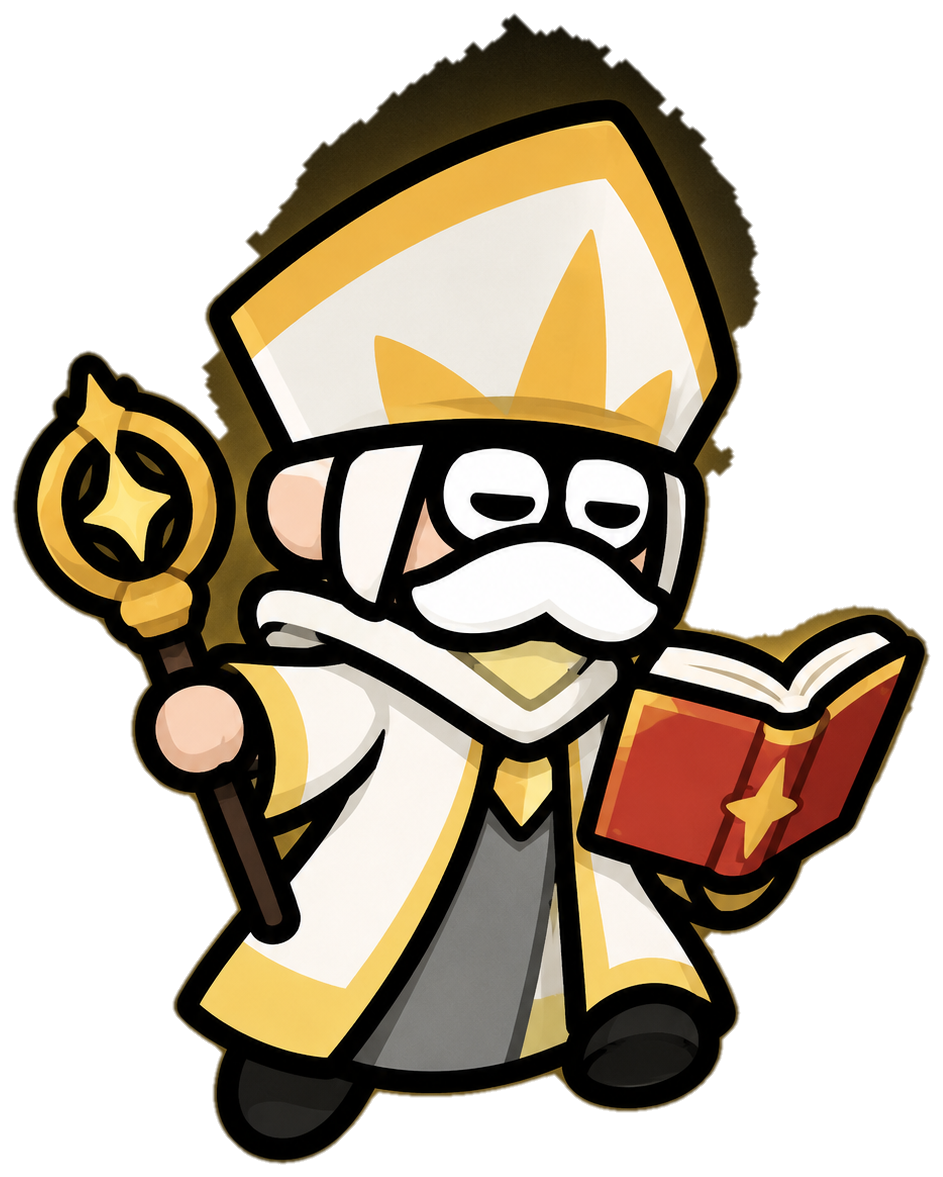
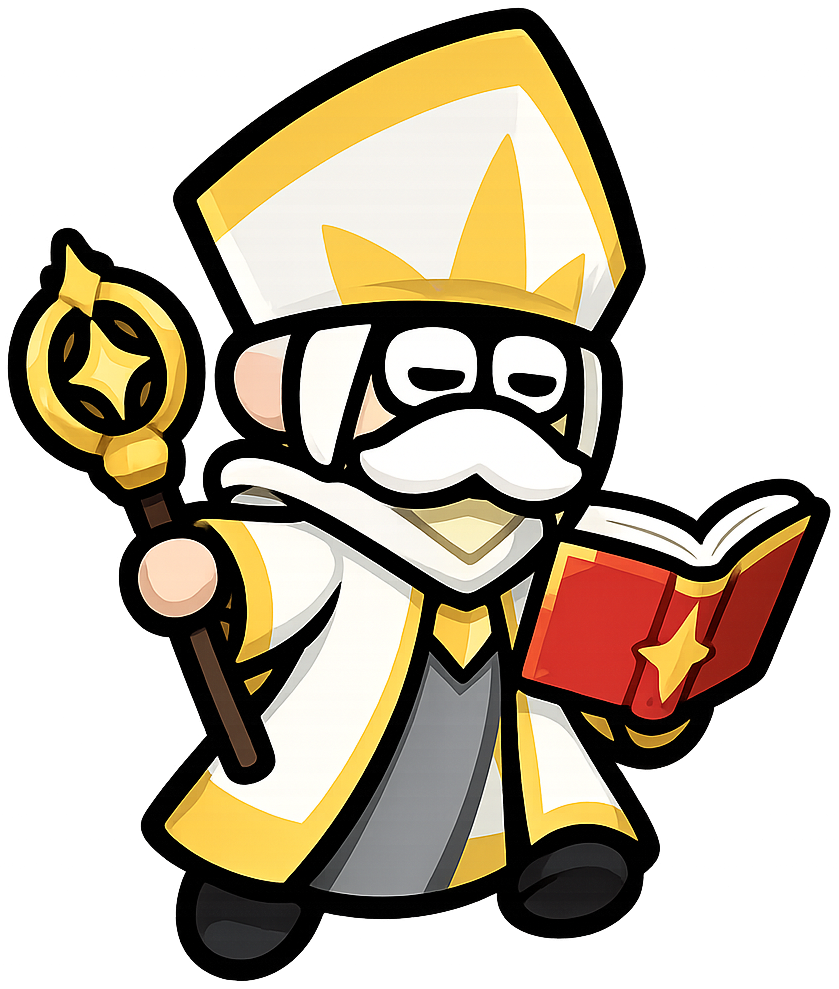
신규 8명 lobby portrait 사용자 제공 깔끔본으로 교체
- 사용자가 직접 BG 제거한 RGBA PNG 8개 trim_portrait.py로 여백만 trim
- 알파 임계값 64로 캐릭터 본체만 남김 (alpha gradient dust 제외)
- HEROES def portraitBigSize 실제 파일 크기로 동기화

diff --git a/game.js b/game.js
@@ -373,7 +373,7 @@ const HEROES = {
     },
     portraitSheet: 'hero_mage_dark_idle', portraitSheetFrame: 0,
     portraitSheetSize: { w: 141, h: 209 }, portraitScale: 1,
-    portraitBig: 'lobby_mage_dark', portraitBigSize: { w: 1054, h: 1080 }, portraitBigScale: 0.65,
+    portraitBig: 'lobby_mage_dark', portraitBigSize: { w: 916, h: 1055 }, portraitBigScale: 0.65,
     quotes: ['심연이 부른다.', '검은 줄기여...', '그림자가 깊다.',
              '소멸하라.', '어둠은 모든 곳에 있다.', '빛은 거짓이다.'],
     animKeys: {
@@ -401,7 +401,7 @@ const HEROES = {
     },
     portraitSheet: 'hero_mage_bomber_idle', portraitSheetFrame: 0,
     portraitSheetSize: { w: 145, h: 165 }, portraitScale: 1,
-    portraitBig: 'lobby_mage_bomber', portraitBigSize: { w: 916, h: 1074 }, portraitBigScale: 0.63,
+    portraitBig: 'lobby_mage_bomber', portraitBigSize: { w: 792, h: 951 }, portraitBigScale: 0.63,
     quotes: ['폭탄이다! 폭탄!', '빵! 빵빵빵!', '심지에 불 붙였어!',
              '아 이 냄새~', '한 번만 더... 안 돼 두 번 더!', '폭탄 좀 더 없나?'],
     animKeys: {
@@ -427,7 +427,7 @@ const HEROES = {
     },
     portraitSheet: 'hero_archer_oneshot_idle', portraitSheetFrame: 0,
     portraitSheetSize: { w: 133, h: 201 }, portraitScale: 1,
-    portraitBig: 'lobby_archer_oneshot', portraitBigSize: { w: 969, h: 1126 }, portraitBigScale: 0.63,
+    portraitBig: 'lobby_archer_oneshot', portraitBigSize: { w: 857, h: 910 }, portraitBigScale: 0.63,
     quotes: ['...조준 완료.', '한 발, 한 명.', '숨 멈추고...',
              '관통한다.', '명중률 100%.', '놓치지 않아.'],
     animKeys: {
@@ -455,7 +455,7 @@ const HEROES = {
     goldPerHit: 1,
     portraitSheet: 'hero_warrior_bandit_idle', portraitSheetFrame: 0,
     portraitSheetSize: { w: 143, h: 176 }, portraitScale: 1,
-    portraitBig: 'lobby_warrior_bandit', portraitBigSize: { w: 904, h: 956 }, portraitBigScale: 0.62,
+    portraitBig: 'lobby_warrior_bandit', portraitBigSize: { w: 863, h: 975 }, portraitBigScale: 0.62,
     quotes: ['한 푼만 줍쇼!', '오늘 수입 어떨까~', '돈 되겠는데?',
              '치킨이 사라지면 안 돼!', '여기도 동전, 저기도 동전!', '한탕 하자!'],
     animKeys: {
@@ -481,7 +481,7 @@ const HEROES = {
     },
     portraitSheet: 'hero_warrior_dark_idle', portraitSheetFrame: 0,
     portraitSheetSize: { w: 145, h: 217 }, portraitScale: 1,
-    portraitBig: 'lobby_warrior_dark', portraitBigSize: { w: 952, h: 1148 }, portraitBigScale: 0.65,
+    portraitBig: 'lobby_warrior_dark', portraitBigSize: { w: 911, h: 1091 }, portraitBigScale: 0.65,
     quotes: ['어둠이 너를 삼킨다.', '...침묵하라.', '비키지 않으면 베어내겠다.',
              '두려워하라.', '쓸어버린다.', '내 길에 서지 마라.'],
     animKeys: {
@@ -508,7 +508,7 @@ const HEROES = {
     },
     portraitSheet: 'hero_healer_grandpa_idle', portraitSheetFrame: 0,
     portraitSheetSize: { w: 142, h: 184 }, portraitScale: 1,
-    portraitBig: 'lobby_healer_grandpa', portraitBigSize: { w: 943, h: 1177 }, portraitBigScale: 0.62,
+    portraitBig: 'lobby_healer_grandpa', portraitBigSize: { w: 839, h: 989 }, portraitBigScale: 0.62,
     quotes: ['아이고, 잠깐 가만있어봐.', '할애비가 고쳐주마.', '약 드시고 가셔!',
              '에구구... 다친 사람 어딨노.', '이거 한 방이면 끄떡없어!', '뼈에 좋은 거여.'],
     animKeys: {
@@ -533,7 +533,7 @@ const HEROES = {
     tauntRange: 78,
     portraitSheet: 'hero_tank_dandan_idle', portraitSheetFrame: 0,
     portraitSheetSize: { w: 150, h: 203 }, portraitScale: 1,
-    portraitBig: 'lobby_tank_dandan', portraitBigSize: { w: 1078, h: 1097 }, portraitBigScale: 0.65,
+    portraitBig: 'lobby_tank_dandan', portraitBigSize: { w: 867, h: 1008 }, portraitBigScale: 0.65,
     quotes: ['딴딴해!', '나에게 와라!', '꿈쩍도 안 한다!',
              '여기 있다, 이놈들아!', '내가 막는다.', '뚫어보시지!'],
     animKeys: {
@@ -558,7 +558,7 @@ const HEROES = {
     dashTrail: true,      // chase 중 잔상 ghost spawn
     portraitSheet: 'hero_assassin_bakso_idle', portraitSheetFrame: 0,
     portraitSheetSize: { w: 219, h: 230 }, portraitScale: 1,
-    portraitBig: 'lobby_assassin_bakso', portraitBigSize: { w: 1016, h: 1175 }, portraitBigScale: 0.62,
+    portraitBig: 'lobby_assassin_bakso', portraitBigSize: { w: 867, h: 970 }, portraitBigScale: 0.62,
     quotes: ['바람보다 빠르게!', '눈깜빡할 새에...', '슈웅!',
              '잡았다.', '여긴가, 저긴가!', '내 칼이 보였나?'],
     animKeys: {

diff --git a/_tools/trim_portrait.py b/_tools/trim_portrait.py
@@ -1,0 +1,36 @@
+"""사용자 제공 RGBA PNG의 빈 공간 trim (alpha bbox 기준 + 여백 PAD).
+
+bg 제거는 이미 사용자가 완료. 1024x1536 같은 큰 캔버스에 캐릭터가 작게 들어있어서
+필요 없는 transparent 영역만 잘라낸다.
+
+usage: python trim_portrait.py <src> <dst>
+"""
+import sys
+import numpy as np
+from PIL import Image
+
+PAD = 8
+ALPHA_THRESHOLD = 64  # alpha > 이 값을 fg로 간주 (캐릭터 본체만, 흩어진 dust/halo 제외)
+
+
+def trim(src_path: str, dst_path: str) -> None:
+    img = Image.open(src_path).convert('RGBA')
+    arr = np.array(img)
+    alpha = arr[..., 3]
+    fg = alpha > ALPHA_THRESHOLD
+    if not fg.any():
+        print(f'{src_path}: empty')
+        return
+    ys, xs = np.where(fg)
+    h, w = arr.shape[:2]
+    y0 = max(0, ys.min() - PAD)
+    y1 = min(h, ys.max() + PAD + 1)
+    x0 = max(0, xs.min() - PAD)
+    x1 = min(w, xs.max() + PAD + 1)
+    cropped = arr[y0:y1, x0:x1]
+    Image.fromarray(cropped, 'RGBA').save(dst_path)
+    print(f'saved {dst_path}  ({cropped.shape[1]}x{cropped.shape[0]})')
+
+
+if __name__ == '__main__':
+    trim(sys.argv[1], sys.argv[2])
